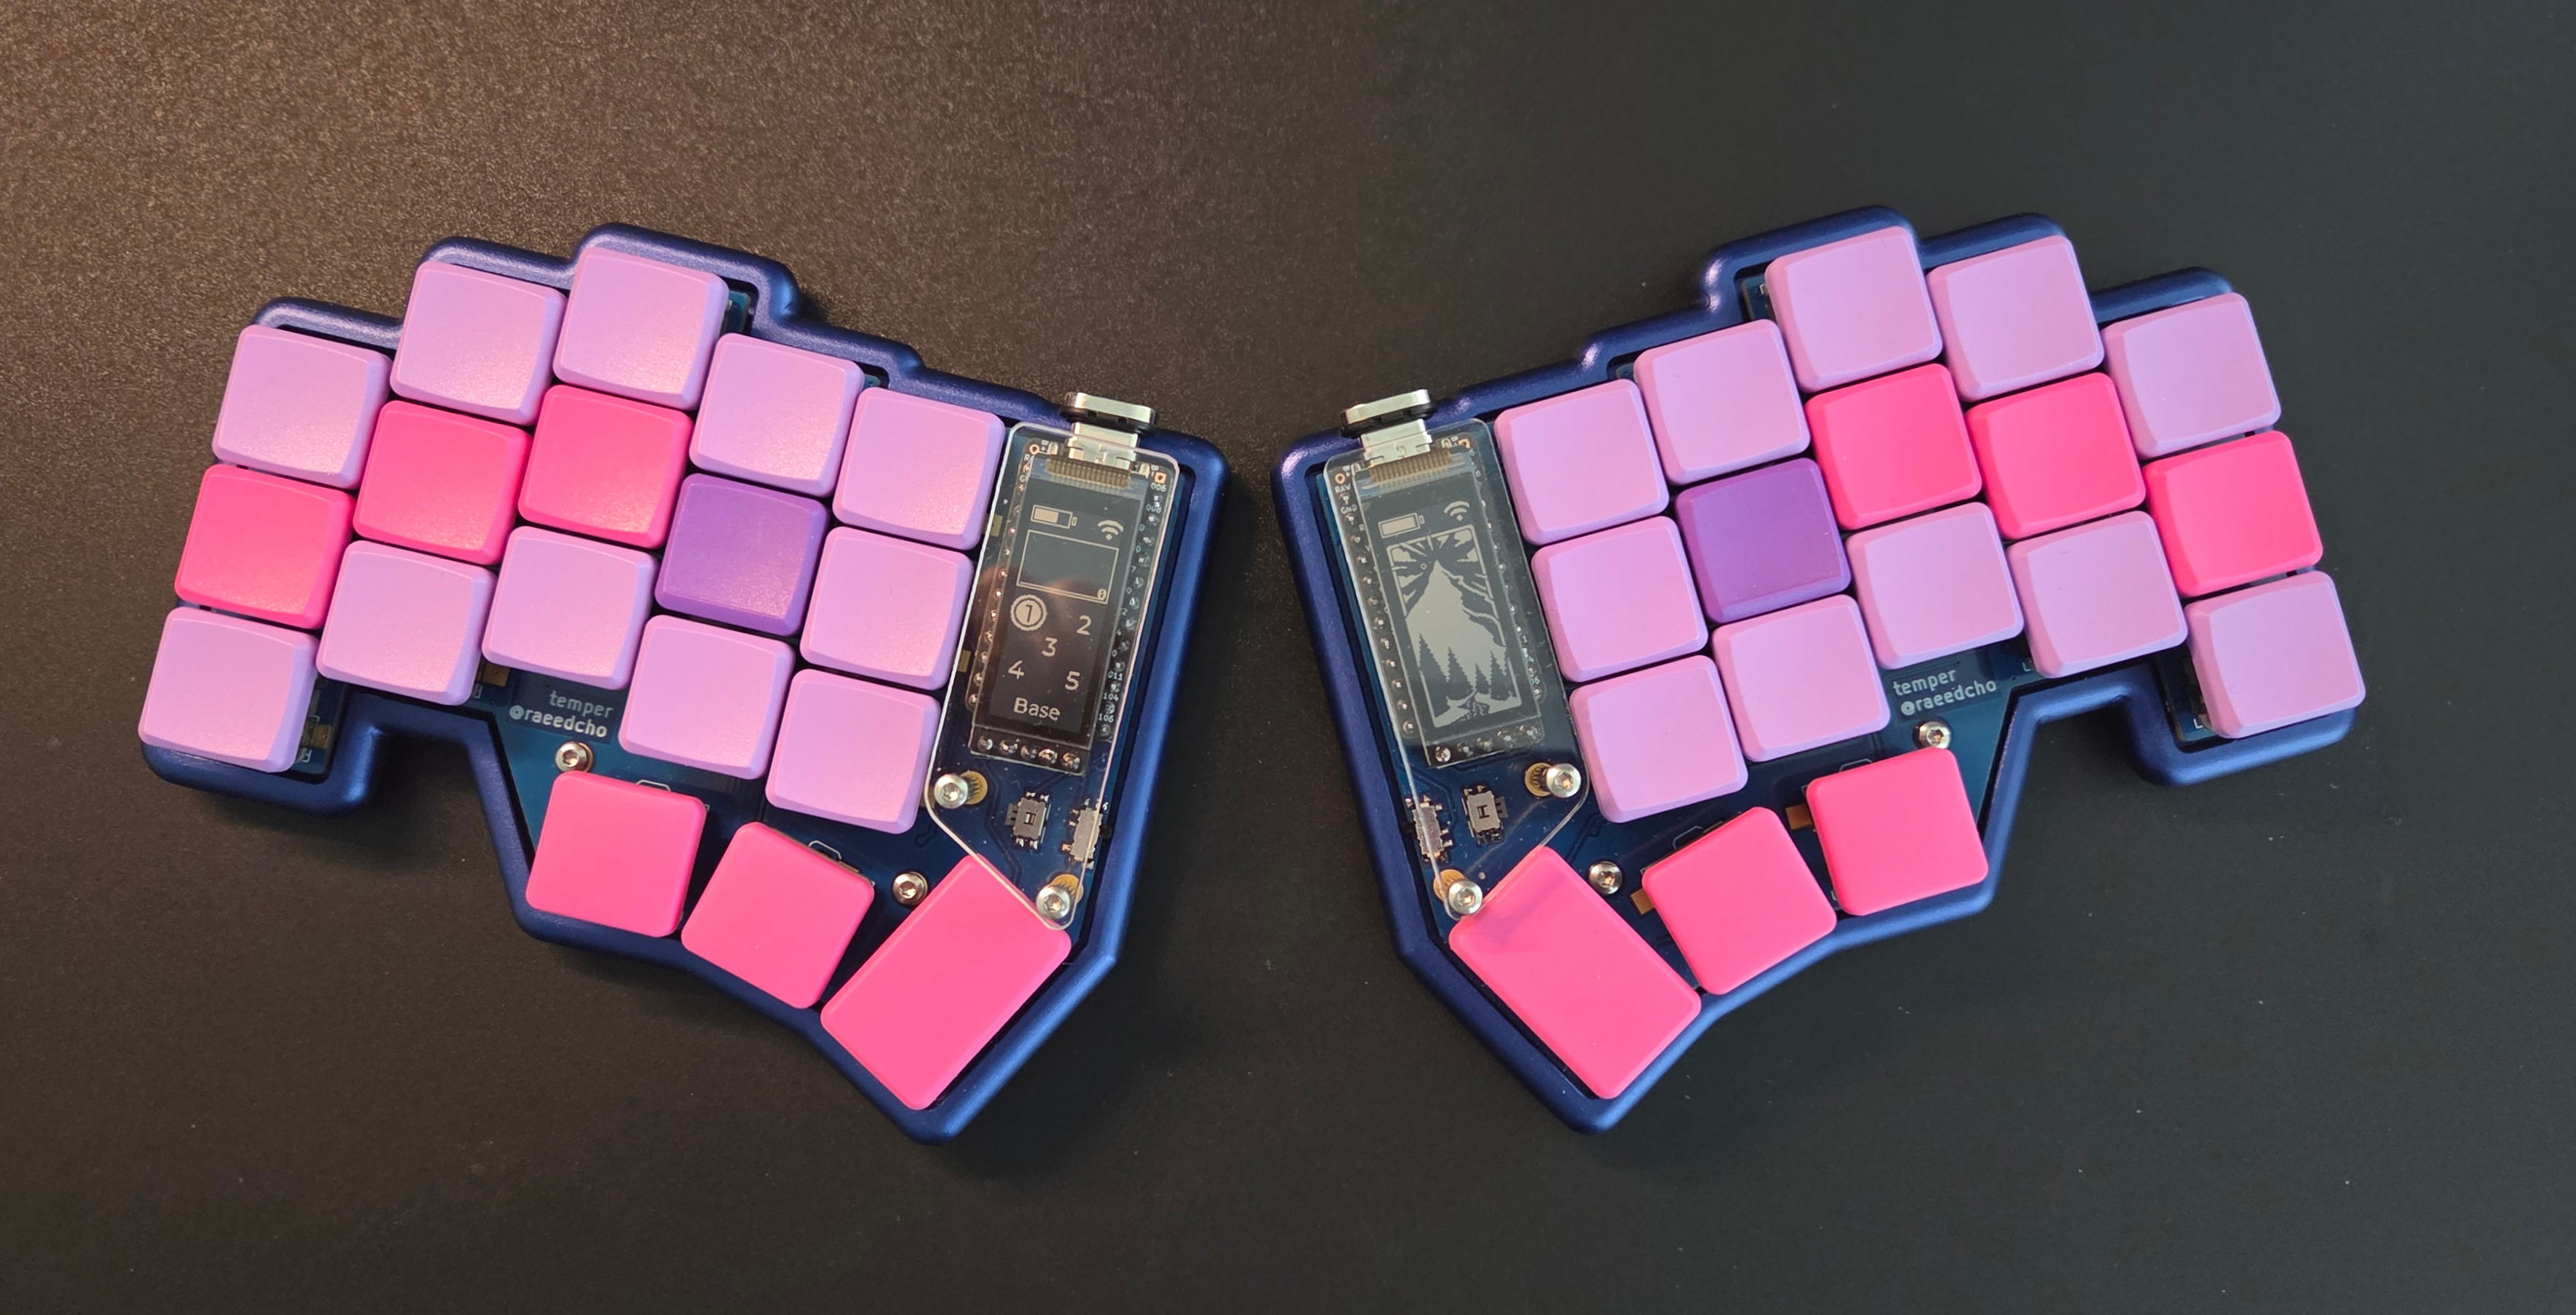
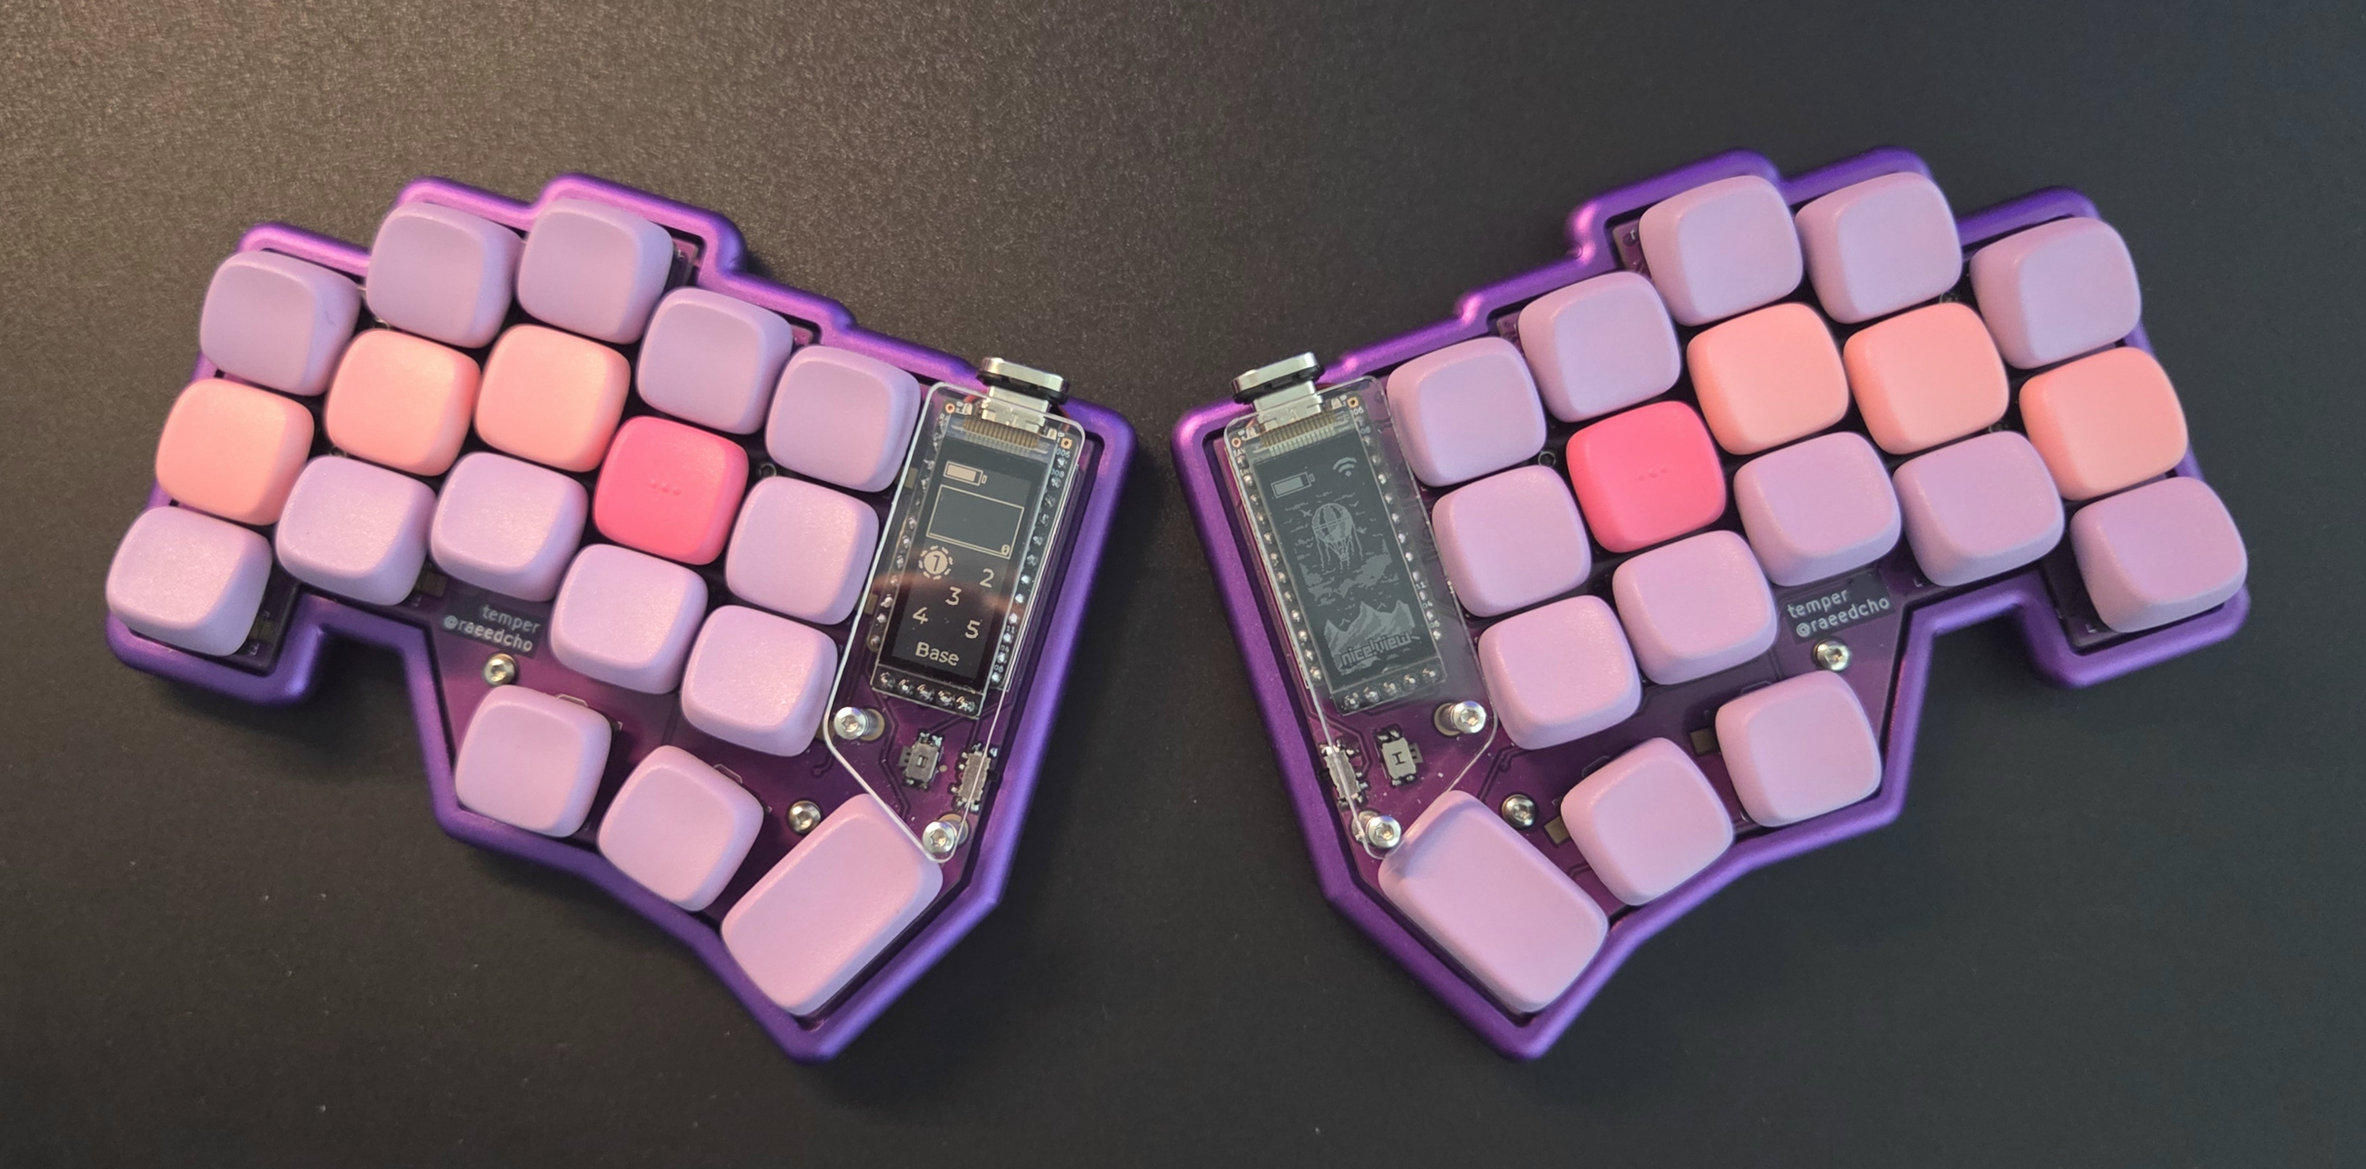
Add some new pictures with KLP Lamé

diff --git a/README.md b/README.md
@@ -11,6 +11,10 @@ I have added a custom function layer and a custom BT layer, so function layer is
 
 Some pictures of the tempers I built, with [anodized aluminum case](https://github.com/CoenTurk/temper-metal) from [CoenTurk](https://github.com/CoenTurk):
 ![temper](temper.jpg)
-![temper1](temper1.jpg)
+![temper2](temper1.jpg)
 ![temper2](temper2.jpg)
 ![temper3](temper3.jpg)
+![temper4](temper3.jpg)
+![temper5](temper3.jpg)
+![temper6](temper3.jpg)
+![temper7](temper3.jpg)
